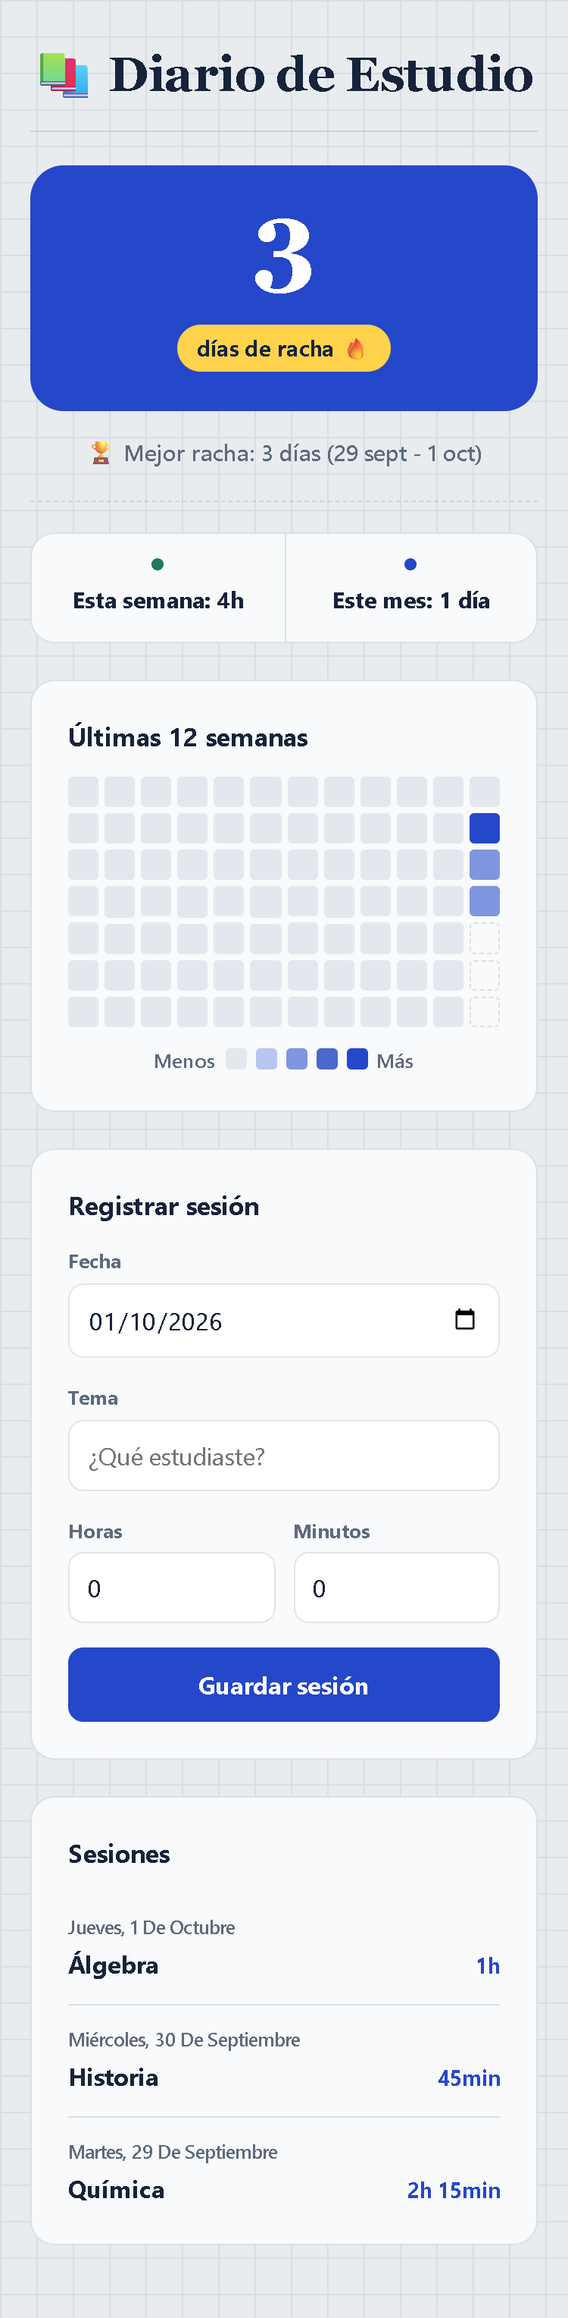
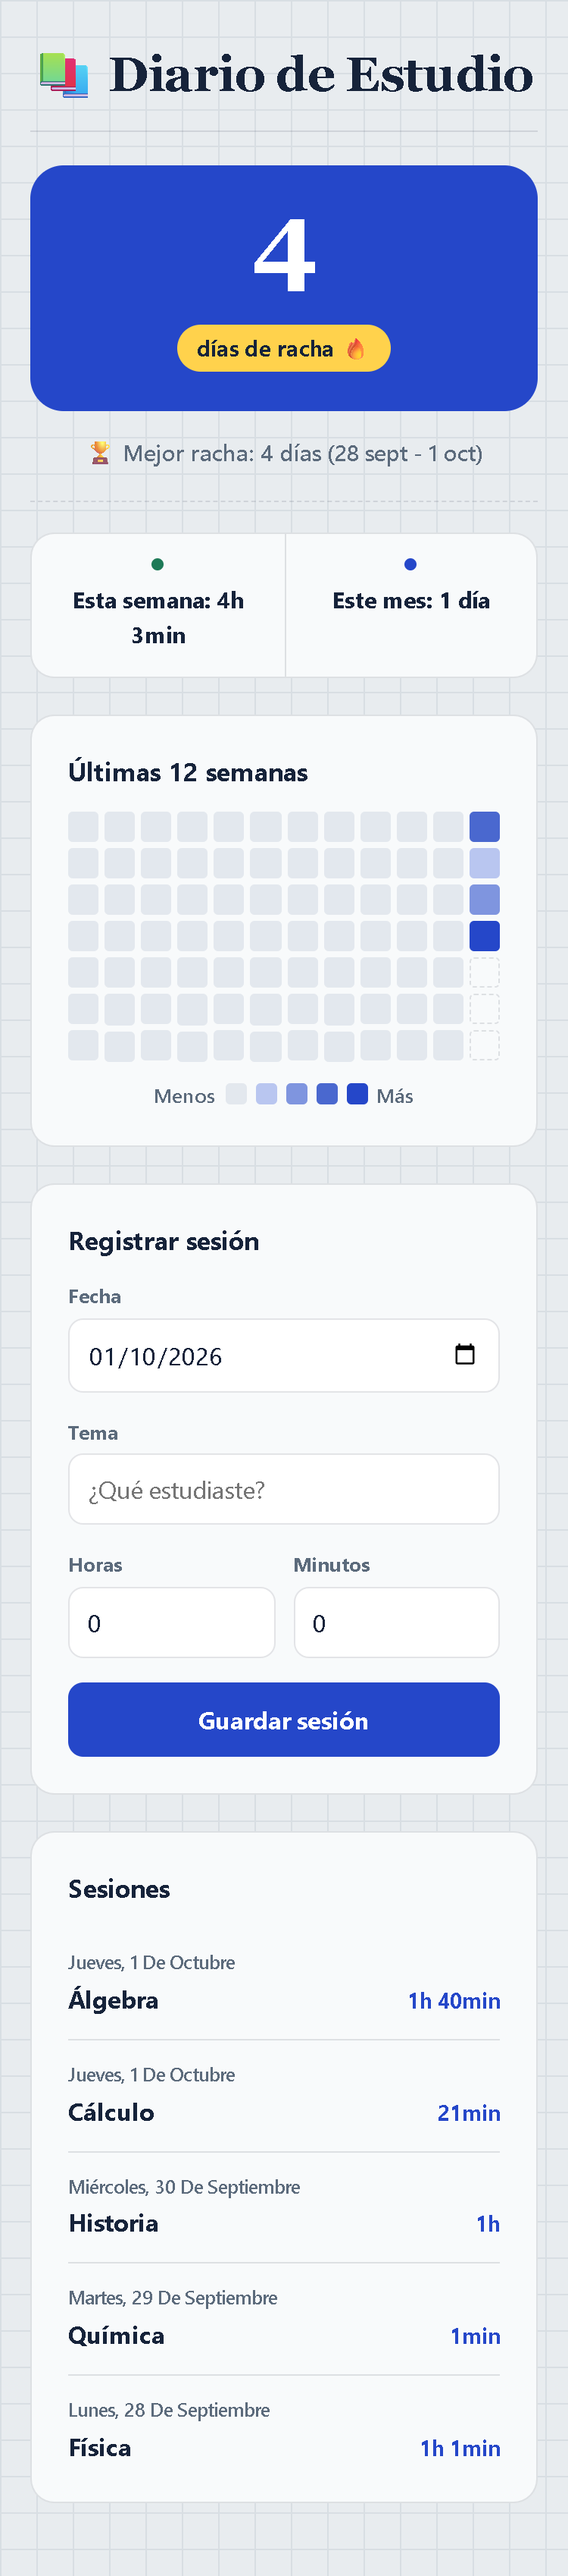
fix: un localStorage corrupto ya no rompe la app (RNF-9)

diff --git a/app.js b/app.js
@@ -40,7 +40,14 @@ function fechaAtexto(fecha) {
  */
 function obtenerSesiones() {
     const datos = localStorage.getItem('sesiones');
-    return datos ? JSON.parse(datos) : [];
+    if (!datos) return [];
+    try {
+        return JSON.parse(datos);
+    } catch (e) {
+        // Datos corruptos: no rompemos la app; se comporta como "sin datos".
+        // No borramos la clave para no destruir lo que el usuario tenga guardado.
+        return [];
+    }
 }
 
 /**

diff --git a/MEMORY.md b/MEMORY.md
@@ -23,6 +23,7 @@ Memoria del proyecto entre sesiones. Máximo ~50 líneas: resume o elimina lo qu
 - Plan `specs/001-heat-map/plan.md` escrito: `heatmap.js` (lógica pura con "hoy"), `test/heatmap.test.js` (node --test), cambios en `index.html`/`styles.css`/`app.js`. Guardia CommonJS para servir en navegador y en Node. BLOQUEANTE: decidir el modelo de datos (AGENTS.md dice `diario-estudio-sesiones`+`createdAt`; el código usa `sesiones`+`{fecha,tema,minutos}`).
 - Tasks `specs/001-heat-map/tasks.md` escritas: 17 tareas (T0–T16) en 5 fases, con checkboxes, RF por tarea y "Hecho cuando" verificable. T0 (modelo de datos) es bloqueante.
 - Mapa de calor COMPLETADO (T0–T16). Decisión T0: fuente de verdad = código real (`sesiones` / `{fecha, tema, minutos}`), con lectura defensiva (`fecha`/`date`, `minutos`/`minutes`) y sin migrar datos. Nuevos: `heatmap.js` (lógica pura con "hoy") y `test/heatmap.test.js` (20 tests, `node --test`, verde). Modificados: `index.html` (sección mapa + carga de heatmap.js), `styles.css` (rejilla/niveles/leyenda), `app.js` (pintado e interacción). Etiqueta "D mes — N min" / "D mes — sin sesión".
+- RNF-9 corregido: `obtenerSesiones` envuelve `JSON.parse` en try/catch; un almacenamiento corrupto se degrada a "sin datos" sin borrar la clave. Verificado en vivo (mapa 84 celdas + mensaje, sin errores de consola).
 - T1 completada: creados `heatmap.js` (esqueleto con guardia CommonJS) y `test/heatmap.test.js` (TDD: test en rojo → verde con `node --test`, 1/1). T2 pendiente. Nota: T1 se hizo antes de resolver T0; no toca datos, así que no hay riesgo.
 - Regla nueva en `AGENTS.md`: cada commit se anota en la sección "Historial de cambios" del `README.md`. El historial se queda en el README (no se crea `CHANGELOG.md`); si pasa de ~15 entradas, se podan las más antiguas dejando las 10 recientes.
 - [2026-10-01] Aprendizaje: en `app.js` (entorno navegador, no módulo) conviene usar nombres propios de ese archivo; `heatmap.js` se carga antes y expone funciones globales (`buildHeatmap`, etc.).

diff --git a/README.md b/README.md
@@ -82,6 +82,7 @@ Cada commit relevante se anota aquí (el más reciente primero).
 
 | Fecha | Cambio |
 |---|---|
+| 2026-10-01 | Corrección de RNF-9: un `localStorage` corrupto ya no rompe la app (se degrada a "sin datos"). |
 | 2026-10-01 | Mapa de calor de las últimas 12 semanas (lógica en `heatmap.js`, tests con `node --test`, leyenda, detalle por día). |
 | 2026-10-01 | Decisión: el historial de cambios vive en el README (sin `CHANGELOG.md`), con regla de poda. |
 | 2026-10-01 | Constitución del proyecto, regla de historial en `AGENTS.md` y actualización del README. |
